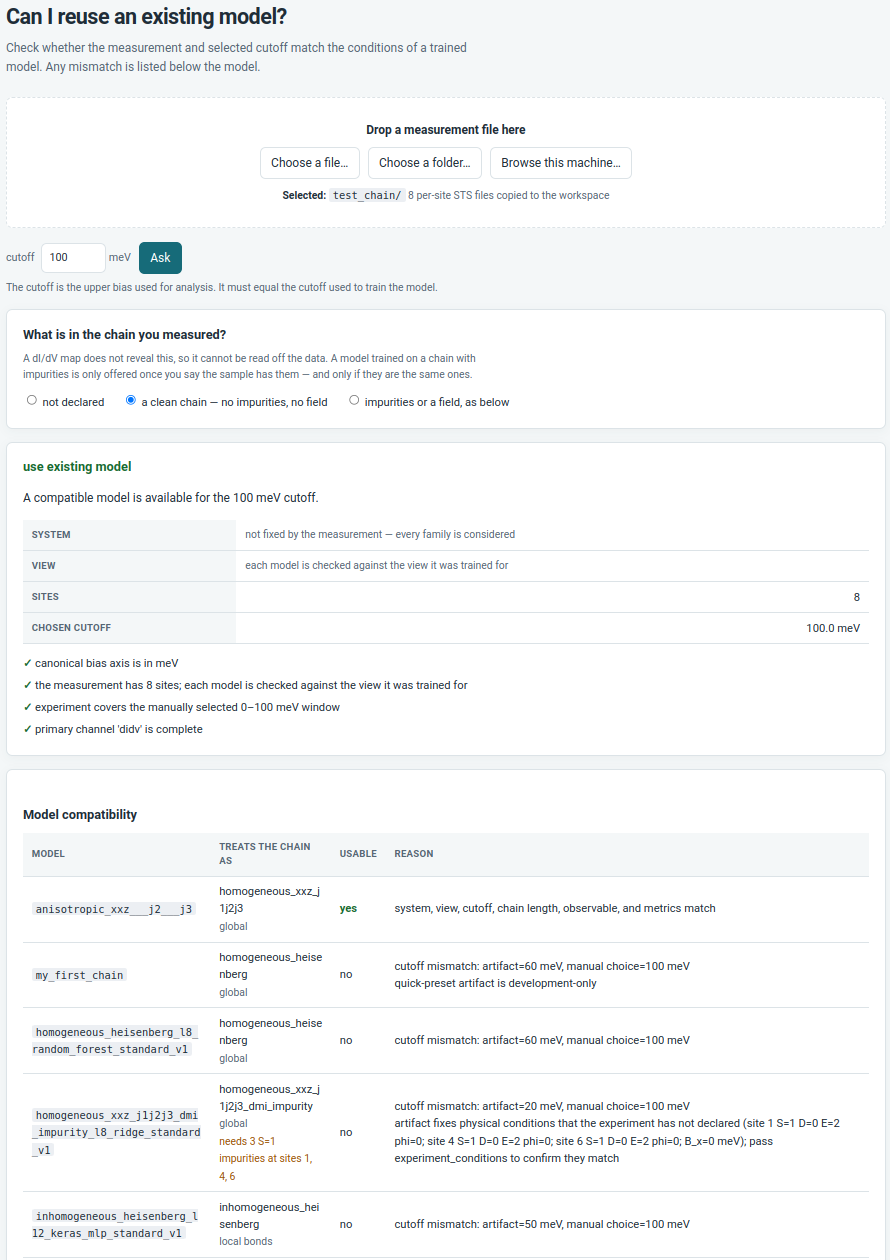
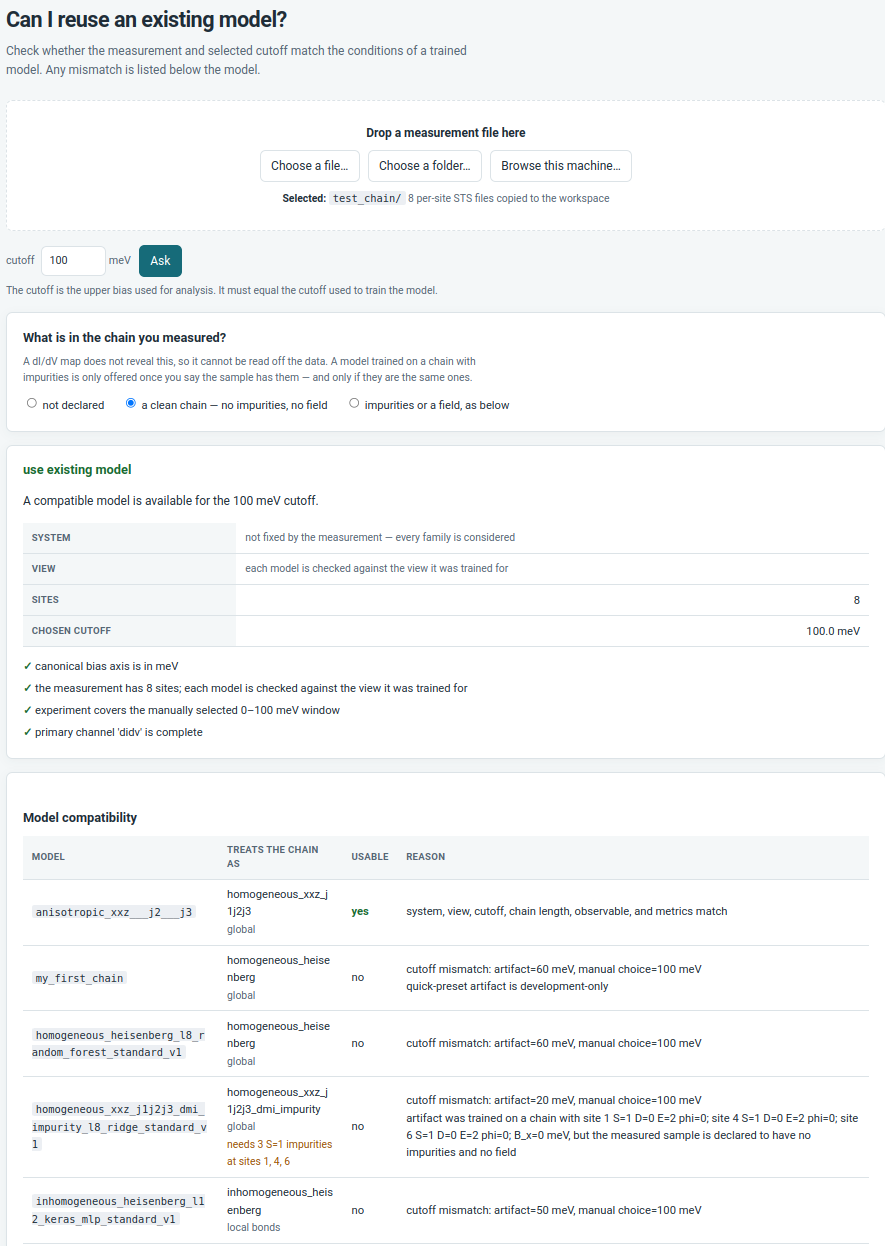
Release 0.1.1
Corrections found while publishing 0.1.0, on the same day: the reuse check no
longer assumes a family of Hamiltonian the measurement never stated, what a
model needs of the sample can be declared and is shown as the chain it
describes, the hours are attributed to generating a dataset rather than to
training, and the README says which install gives which capability next to the
install command rather than forty lines below it.

diff --git a/src/hamlet/__init__.py b/src/hamlet/__init__.py
@@ -119,6 +119,6 @@ __all__ = [
     "SpectroscopyDataset",
     "generate_dataset",
 ]
-__version__ = "0.1.0"
+__version__ = "0.1.1"
 __brand__ = "HamLeT"
 __full_name__ = "Hamiltonian Learning Toolkit"

diff --git a/CHANGELOG.md b/CHANGELOG.md
@@ -8,6 +8,51 @@ the policy in [CONTRIBUTING.md](CONTRIBUTING.md).
 
 Nothing yet.
 
+## [0.1.1] - 2026-09-16
+
+Corrections found while publishing 0.1.0, on the same day.
+
+### Fixed
+
+- **The reuse check no longer assumes which family of Hamiltonian produced a
+  measurement.** A measurement declares no family, and the advisor defaulted to
+  `inhomogeneous_heisenberg`, then rejected every homogeneous model for a
+  "system mismatch" the data had never asserted -- while inference itself ran
+  those same models happily. Whether a chain is treated as homogeneous or
+  bond-inhomogeneous is a modelling choice, so an undeclared family now
+  constrains nothing and each model is judged against the view it was trained
+  for. Naming a family, as every project configuration and `--system` does,
+  still narrows the search exactly as before.
+- **What a model needs of the *sample* can now be declared.** Impurities are
+  never recognised from data -- nothing in a dI/dV map reveals them -- and the
+  only way to declare them was a checkbox confirming a model's own list, on the
+  analysis page. The reuse check had no way at all, so a model trained with
+  impurities was refused there every time, with a reason the page gave no means
+  of answering. Both pages now carry one declaration of the measured chain: a
+  clickable chain diagram with each impurity's spin, axial and transverse
+  anisotropy and angle, plus a transverse field. A sample declared as clean is
+  told so, rather than being told it "has not declared".
+- **A model's required sample is shown as the chain it describes**, with a row
+  per impurity, instead of the training recipe printed as JSON, and each row is
+  marked against the declared sample. A one-line form appears on the model
+  cards and in the compatibility table, so what a model demands is visible
+  before it is selected.
+- **Timing claims name the right stage.** Three places said training takes
+  hours. Generating the dataset is the slow stage; fitting a model to it is
+  minutes.
+- Coupling estimates are no longer printed on top of their own error bars.
+- Formulas in `docs/theory.md` used LaTeX thin spaces, which GitHub renders as
+  commas and semicolons.
+
+### Changed
+
+- The README states which install gives which capability, next to the install
+  command rather than forty lines below it. The base package can use the ridge
+  and random-forest reference models but cannot generate a dataset; `[ml]` adds
+  the Keras models including the variable-length local-window one, and
+  `[simulation]` adds generation. An environment that already has TensorFlow or
+  DMRGPy needs no extra.
+
 ## [0.1.0] - 2026-09-16
 
 First public release. HamLeT infers spin-chain Hamiltonians from scanning
